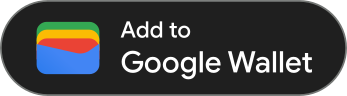
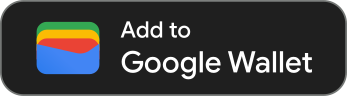
Google Wallet badge: rounded-rectangle corners to match Apple's
The owner's call: Google's pill (rx 27) becomes a rounded rectangle (rx 13,
about 24% of the height, as Apple's). Nothing else in the artwork changes.
Email PNGs re-rendered; the test pins the new file and that it differs from
Google's download only in the corner radius.

Claude-Session: https://claude.ai/code/session_01EiyY8SCgCLMsFcWNDso4n4

diff --git a/tests/WalletButtons.test.tsx b/tests/WalletButtons.test.tsx
@@ -88,9 +88,13 @@ describe("WalletButtons", () => {
     expect(new Set(screen.getAllByRole("img").map((img) => img.getAttribute("class")))).toEqual(new Set(["block h-11 w-auto"]));
   });
 
-  it("the committed artwork is the vendors' download, byte for byte", () => {
-    const sha = (file: string) => createHash("sha256").update(readFileSync(path.join(process.cwd(), "public", file))).digest("hex");
[2 lines of base64/hex data omitted]
+  it("the committed artwork is the vendors' download: Apple's byte for byte, Google's with only its corners changed", () => {
+    const read = (file: string) => readFileSync(path.join(process.cwd(), "public", file));
+    const sha = (data: Buffer | string) => createHash("sha256").update(data).digest("hex");
[1 lines of base64/hex data omitted]
+    // Google's pill (rx="27") cut to a rounded rectangle like Apple's (rx="13"), the owner's call (docs/wallet-setup.md).
+    const google = read(WALLET_BADGES.google.src).toString("utf8");
[2 lines of base64/hex data omitted]
   });
 });

diff --git a/lib/wallet-badges.ts b/lib/wallet-badges.ts
@@ -1,8 +1,10 @@
 /**
  * The vendors' official wallet artwork (docs/wallet-setup.md, "Official
- * badges"), downloaded by the owner on 20 Nov 2026 and committed byte for
- * byte under public/wallet/badges/. Never redraw, recolour, crop or restyle
- * either. The email can't rely on SVG, so it uses PNGs rasterised from these
+ * badges"), downloaded by the owner on 20 Nov 2026, under
+ * public/wallet/badges/. Apple's is byte for byte. Google's has its corner
+ * radius cut from a pill to a rounded rectangle like Apple's (the owner's
+ * call; docs/wallet-setup.md), nothing else. Never redraw, recolour, crop or
+ * otherwise restyle either. The email can't rely on SVG, so it uses PNGs rasterised from these
  * same files (scripts/render-ticket-email-assets.ts,
  * lib/server/email-ticket-layout.ts).
  *

diff --git a/components/tickets/WalletButtons.tsx b/components/tickets/WalletButtons.tsx
@@ -21,7 +21,7 @@ interface WalletButtonsProps {
  * route redirects to Google's save page, and Apple's serves the .pkpass,
  * which Safari offers to add to Wallet.
  *
- * Each is the vendor's official badge, unmodified (lib/wallet-badges.ts):
+ * Each is the vendor's official badge (lib/wallet-badges.ts; Google's with rounded-rectangle corners):
  * Apple's then Google's, both 44px tall at their own proportions (about 139
  * and 159px wide), 8px apart (Apple asks for 0.1x the height around its
  * badge: 4.4px). No hover effects, no dimming, and the same files in both

diff --git a/docs/wallet-setup.md b/docs/wallet-setup.md
@@ -175,17 +175,24 @@ use OpenSSL, which macOS, Linux and Git Bash on Windows already have.
 ## Official badges
 
 Both buttons are the vendors' official artwork, downloaded by the owner on
-20 Nov 2026. They're committed byte for byte in `public/wallet/badges/`
-(`lib/wallet-badges.ts`) and used unmodified on the ticket page
-(`components/tickets/WalletButtons.tsx`) and in the ticket email. As with
-the sign-in logos (`docs/auth-logos.md`), never redraw, recolour, crop or
-restyle them, and never ship a made-up version. To replace one, download
-it again yourself.
+20 Nov 2026, in `public/wallet/badges/` (`lib/wallet-badges.ts`), and used
+on the ticket page (`components/tickets/WalletButtons.tsx`) and in the
+ticket email. Apple's is committed byte for byte. Google's has one change,
+the owner's call on 20 Nov 2026: its two outline rectangles' corner radius
+goes from `rx="27"` (a pill) to `rx="13"`, so it's a rounded rectangle like
+Apple's (Apple's corner is about 24% of its height; 13 is 24% of 54).
+Nothing else in it changed. Google's guidelines ask for the button
+unaltered, so Google could flag this when it reviews the Wallet
+integration; if it does, put back the original (`rx="27"`, the SHA-256
+below) and re-run `scripts/render-ticket-email-assets.ts`. Apart from
+that, as with the sign-in logos (`docs/auth-logos.md`), never redraw,
+recolour, crop or restyle them, and never ship a made-up version. To
+replace one, download it again yourself.
 
 | File | Source | What it is | SHA-256 |
 | --- | --- | --- | --- |
[3 lines of base64/hex data omitted]
 
 Not committed, from the same downloads:
 - Google's one-line `enAU_add_to_google_wallet_wallet-button.svg`
